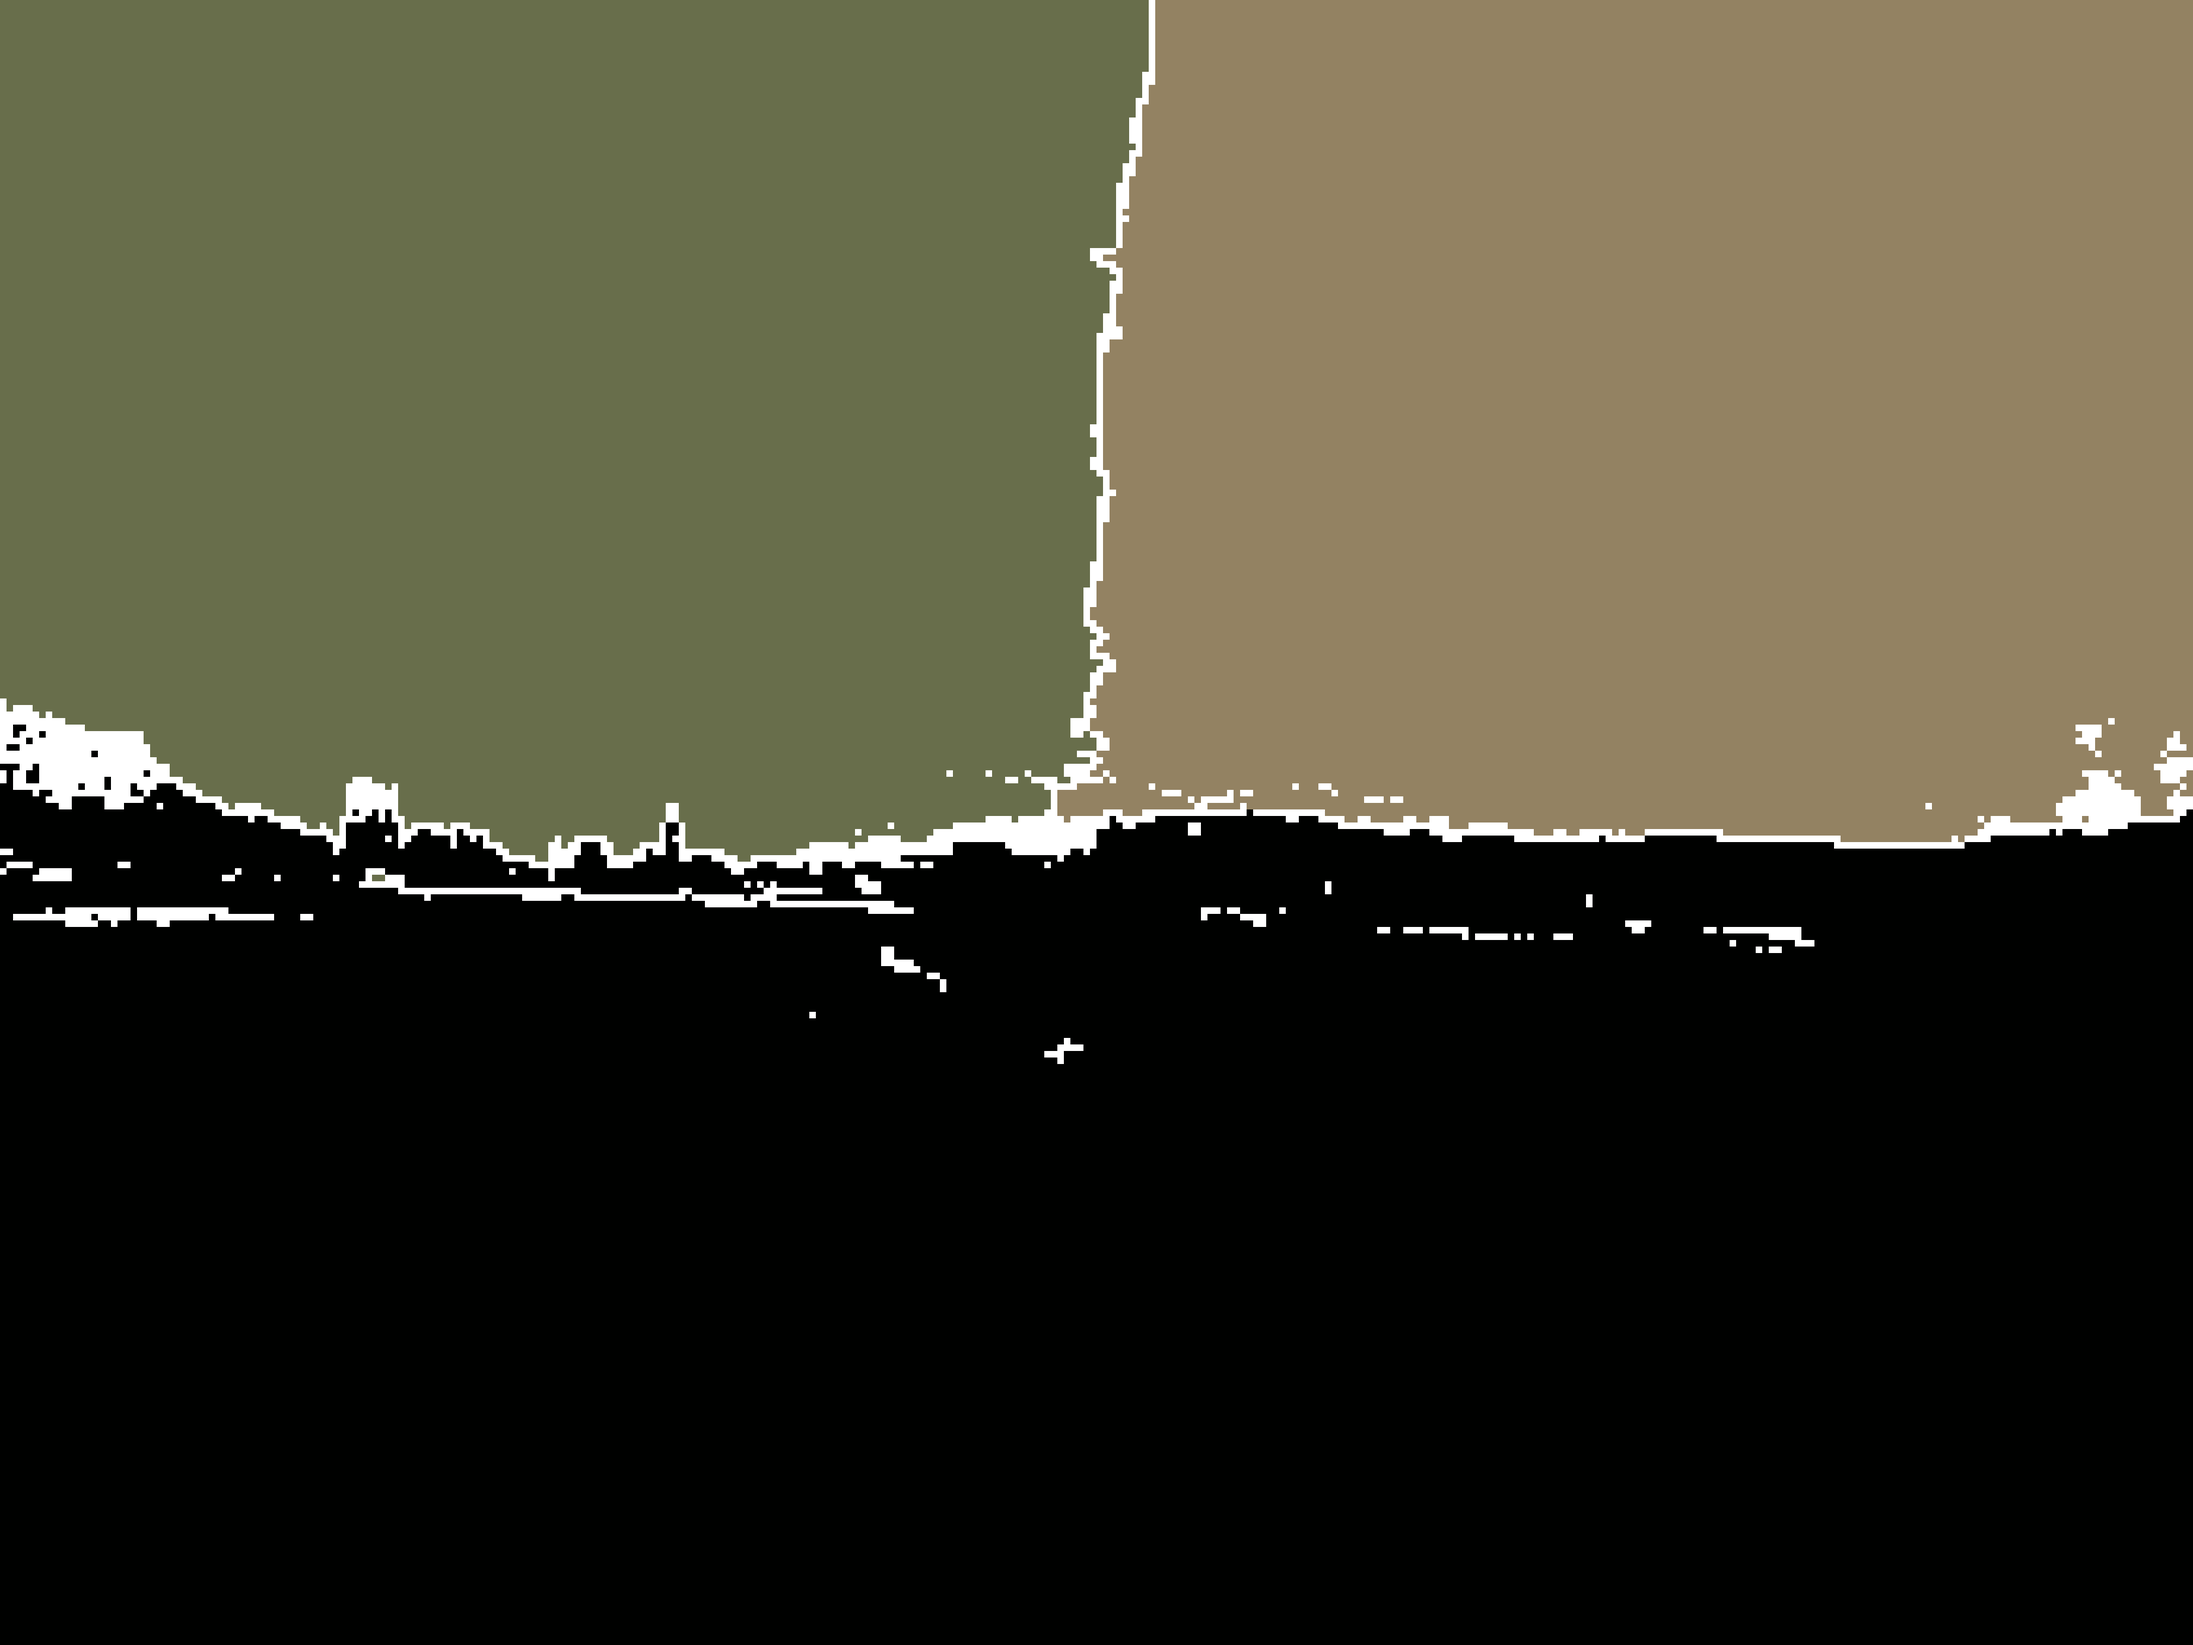
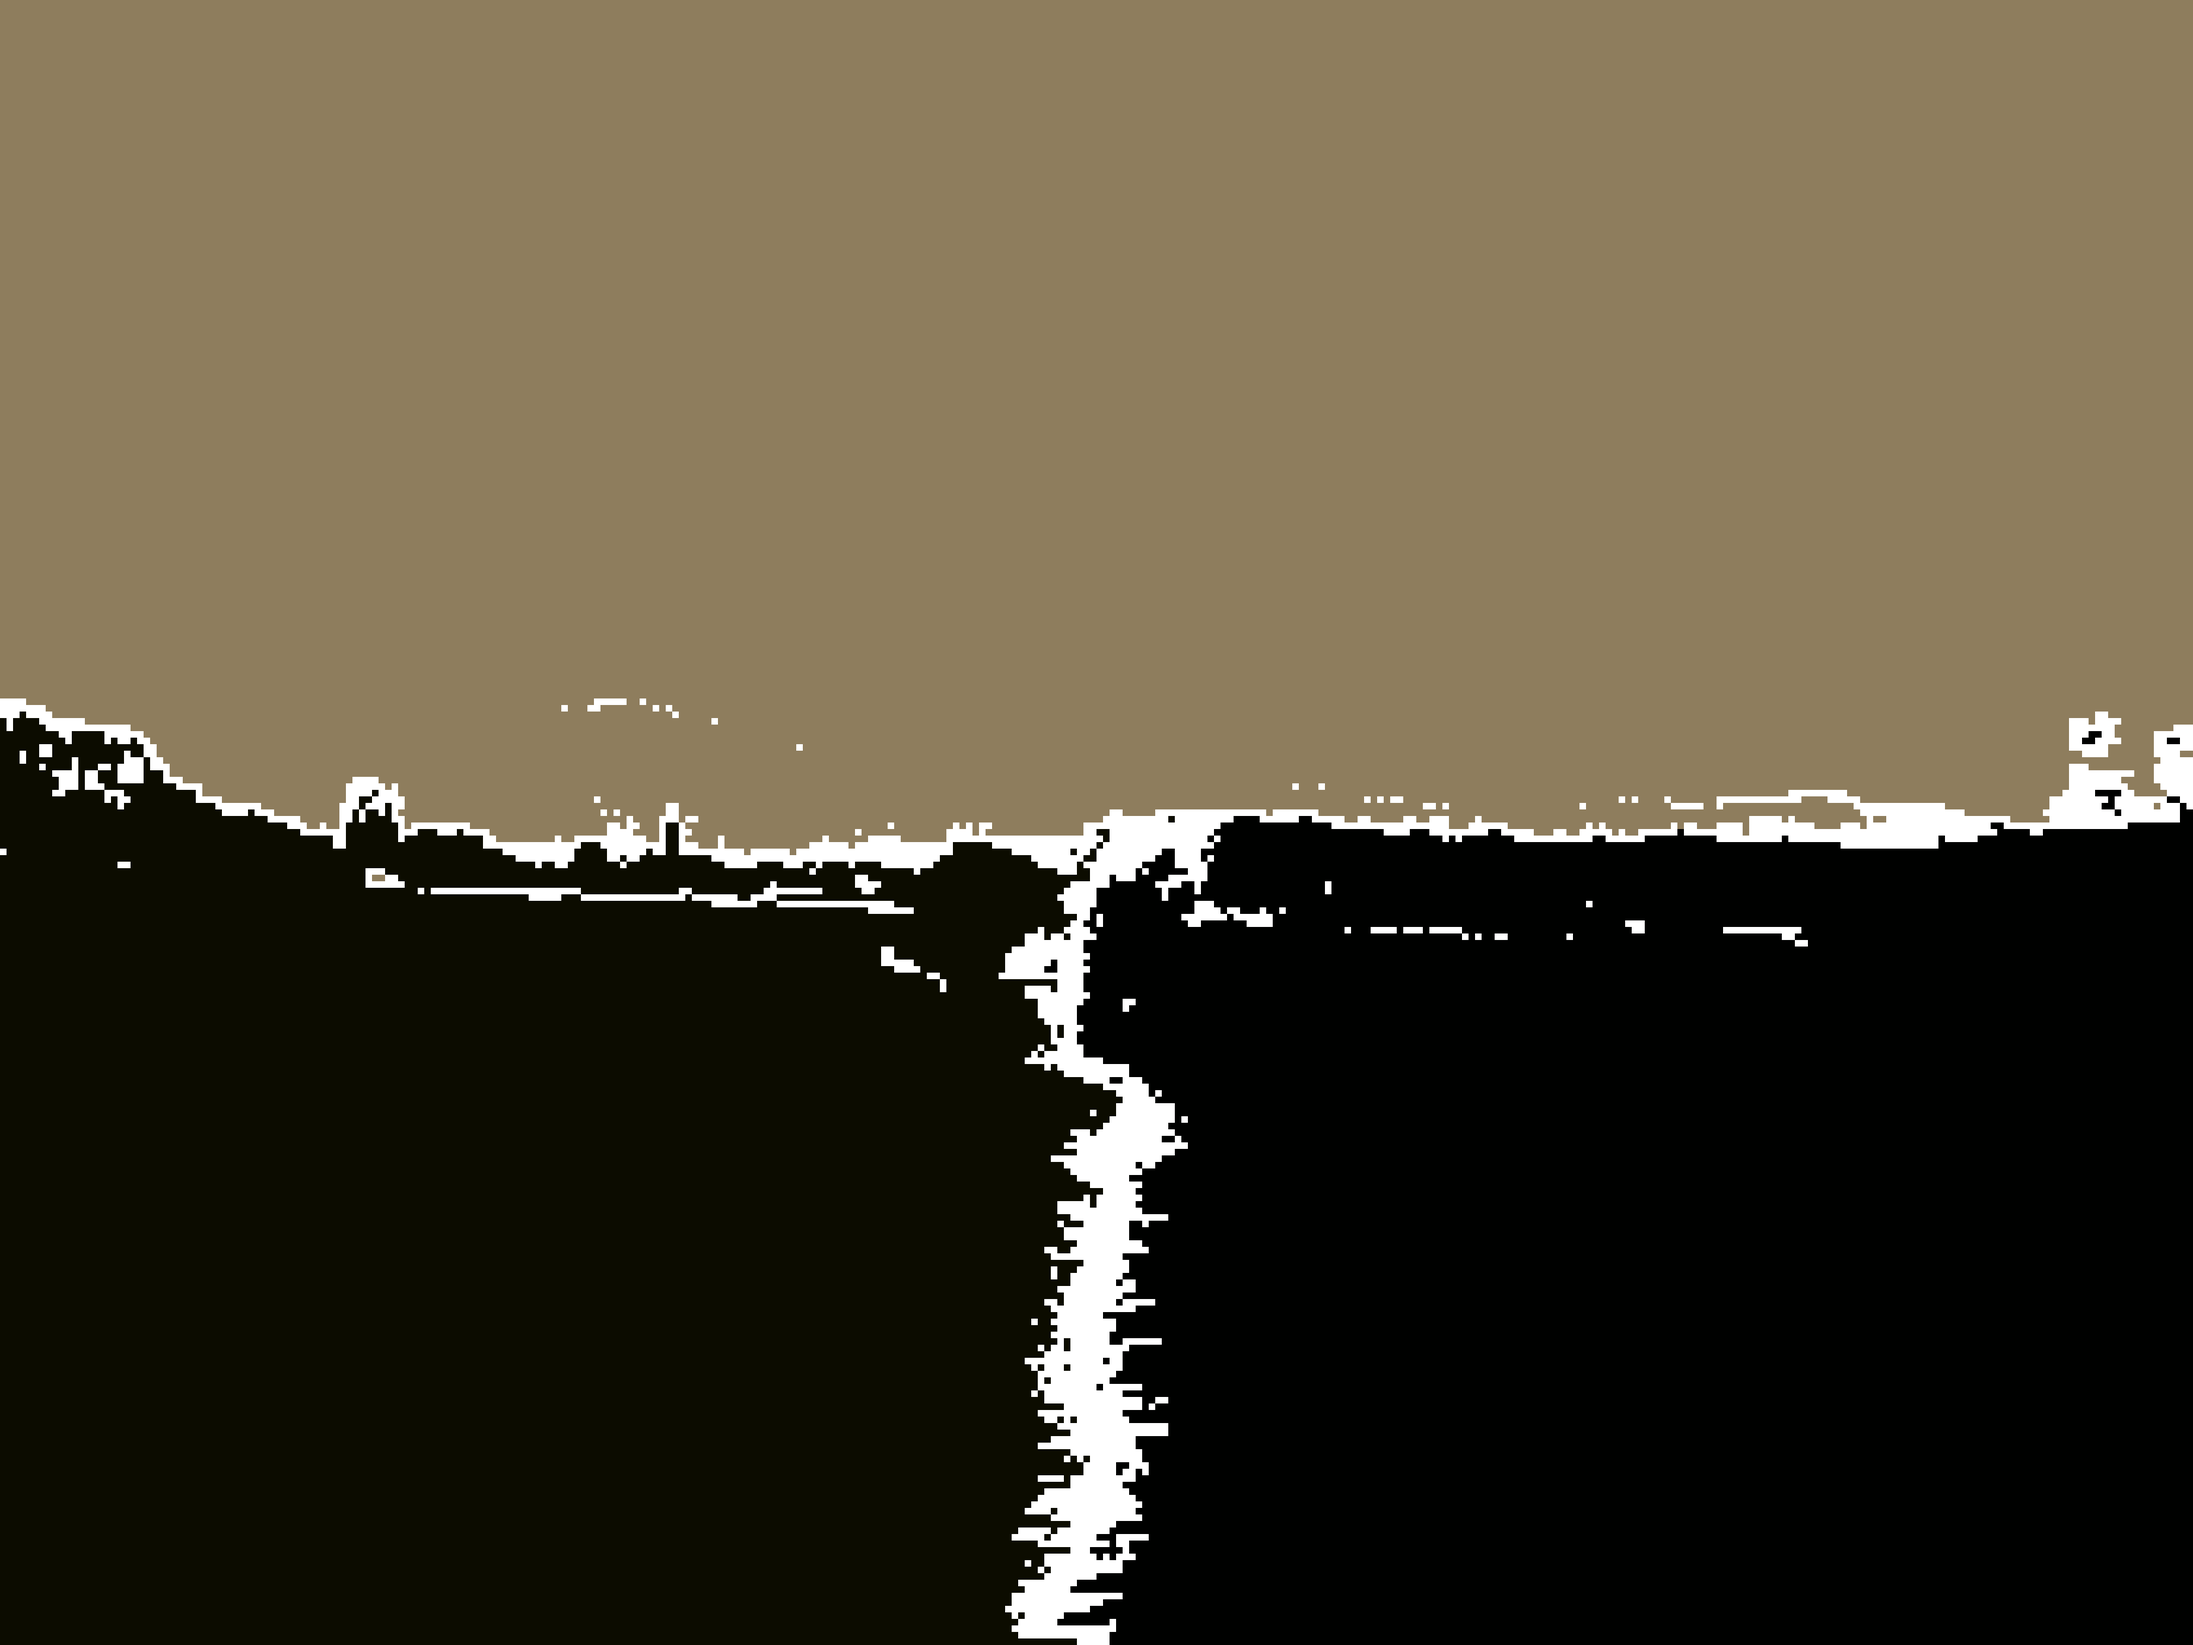
Changed to kmeans and removed cogset

diff --git a/src/lib.rs b/src/lib.rs
@@ -48,7 +48,7 @@ mod tests {
         let cluster = crate::encode::clustering::clustering_methods::kmeans_clustering(&cloud, 3);
         let mut size: usize = 0;
         for c in cluster.iter() {
-            size += c.1.len();
+            size += c.len();
         }
         assert_eq!(size, pixel_count);
     }
@@ -64,7 +64,7 @@ mod tests {
         for (_idx, c) in cluster.iter().enumerate() {
             let mut add_color: [u32; 3] = [0, 0, 0];
             let mut counter: u32 = 1;
-            for p in &c.1 {
+            for p in c {
                 counter += 1;
                 add_color[0] = add_color[0] + points[*p][2];
                 add_color[1] = add_color[1] + points[*p][3];
@@ -94,7 +94,7 @@ mod tests {
                 def_color = Rgb([0, 0, 0]);
             }
             */
-            for p in &c.1 {
+            for p in c.iter() {
                 debug_img.put_pixel(points[*p][0] as u32, points[*p][1] as u32, def_color);
             }
         }
@@ -153,14 +153,14 @@ mod tests {
         for idy in 0..grid.hx {
             // println!("{:?}", x_arr);
             for idx in 0..grid.wx {
-                let mut real_w = grid.w;
-                let mut real_h = grid.h;
-                if ((idx + 1) * grid.w) >= w_len {
-                    real_w -= 1;
-                }
-                if ((idy + 1) * grid.h) >= h_len {
-                    real_h -= 1;
-                }
+                // let mut _real_w = grid.w;
+                // let mut _real_h = grid.h;
+                // if ((idx + 1) * grid.w) >= w_len {
+                //     real_w -= 1;
+                // }
+                // if ((idy + 1) * grid.h) >= h_len {
+                //     real_h -= 1;
+                // }
                 let code = &grid.data[[idx, idy]].to_owned();
                 let base_color = if *code == 16 {
                     Rgb([255 as u8, 255 as u8, 255 as u8])

diff --git a/src/encode/grid/grid_ops.rs b/src/encode/grid/grid_ops.rs
@@ -1,4 +1,3 @@
-use cogset::Euclid;
 use ndarray::{Array, ArrayBase, OwnedRepr, Dim, Axis, Array2, ArrayView, Ix3, s};
 use crate::encode::grid::grid_obj::Grid;
 use crate::io::img_obj::Image;
@@ -6,10 +5,10 @@ use image::{Rgb, RgbImage};
 use std::collections::HashMap;
 use crate::encode::clustering::cluster_color::calc_min;
 
-pub fn calc_cluster_map(cluster: &[(Euclid<[f64; 5]>, Vec<usize>)], points: &[[u32; 5]], shape: [usize; 2]) -> ArrayBase<OwnedRepr<usize>, Dim<[usize; 2]>> {
+pub fn calc_cluster_map(cluster: &[Vec<usize>], points: &[[u32; 5]], shape: [usize; 2]) -> ArrayBase<OwnedRepr<usize>, Dim<[usize; 2]>> {
     let mut arr = Array::zeros(shape);
     for (id, c) in cluster.iter().enumerate() {
-        for idx in &c.1 {
+        for idx in c {
             let x = points[*idx][0] as usize;
             let y = points[*idx][1] as usize;
             arr[[x, y]] = id;
@@ -131,10 +130,10 @@ fn calc_chunck_rel(chunck: &ArrayView<u8, Ix3>, color: &[u8; 3]) -> Vec<[u8; 3]>
     pixels.iter().map(|p| { [p[0] - c_r, p[1] - c_g, p[2] - c_b] }).collect()
 }
 
-pub fn calc_cluster_colors(clusters: &[(Euclid<[f64; 5]>, Vec<usize>)], points: &[[u32; 5]]) -> HashMap<u8, [u8; 3]> {
+pub fn calc_cluster_colors(clusters: &[Vec<usize>], points: &[[u32; 5]]) -> HashMap<u8, [u8; 3]> {
     let mut cluster_colors = HashMap::new();
     for (idx, cluster) in clusters.iter().enumerate() {
-        cluster_colors.insert(idx as u8, calc_min(&cluster.1, points));
+        cluster_colors.insert(idx as u8, calc_min(cluster, points));
     }
     cluster_colors
 }

diff --git a/src/encode/clustering/clustering_methods.rs b/src/encode/clustering/clustering_methods.rs
@@ -1,6 +1,29 @@
-use cogset::{Euclid, Kmeans};
+use kmeans::*;
 
-pub fn kmeans_clustering(cloud: &[Euclid<[f64; 5]>], k: usize) -> Vec<(Euclid<[f64; 5]>, Vec<usize>)> {
-    let kmeans = Kmeans::new(cloud, k);
-    kmeans.clusters()
+pub fn kmeans_clustering(cloud: &[[f64; 5]], k: usize) -> Vec<Vec<usize>> {
+    let mut inp = vec![];
+    for e in cloud.iter() {
+        for i in e {
+            inp.push(*i);
+        }
+    }
+    let kmeans = KMeans::new(inp, cloud.len(), 5);
+    let result = kmeans.kmeans_lloyd(k, 10, KMeans::init_kmeanplusplus, &KMeansConfig::default());
+    println!("Centroids => {:?}", result.centroids);
+    println!("Points => {}", cloud.len());
+    println!("Cluster-Assingments => {:?}", result.assignments.len());
+    let mut assingnments = vec![];
+    for idx in 0..result.centroids.len() {
+        let assigns: Vec<usize> = result.assignments.iter().enumerate()
+            .filter(|e| {
+                *e.1 == idx
+            })
+            .map(|e| {
+                e.0
+            })
+            .collect();
+        assingnments.push(assigns);
+
+    }
+    assingnments
 }

diff --git a/src/encode/clustering/gen_point_cloud.rs b/src/encode/clustering/gen_point_cloud.rs
@@ -1,20 +1,20 @@
 use crate::io::img_obj::Image;
 use ndarray::Axis;
-use cogset::Euclid;
 
-pub fn gen_euclid_cloud(img: &Image) -> Vec<Euclid<[f64; 5]>> {
+pub fn gen_euclid_cloud(img: &Image) -> Vec<[f64; 5]> {
     let arr = &img.data;
     let x_len = img.data.dim().2 as f64;
     let y_len = img.data.dim().1 as f64;
-    let mut super_vec: Vec<Euclid<[f64; 5]>> = vec![];
+    let mut super_vec: Vec<[f64; 5]> = vec![];
     for (y, item) in arr.axis_iter(Axis(1)).enumerate() {
         for (x, pixel) in item.axis_iter(Axis(1)).enumerate() {
             // super_vec.push(Euclid([pixel[0] as f64, pixel[1] as f64, pixel[2] as f64]));
-            super_vec.push(Euclid([pixel[0] as f64, pixel[1] as f64, pixel[2] as f64, (x as f64 / x_len) * 255.0, (y as f64 / y_len) * 255.0]));
+            super_vec.push([pixel[0] as f64, pixel[1] as f64, pixel[2] as f64, (x as f64 / x_len) * 255.0, (y as f64 / y_len) * 255.0]);
         }
     }
     super_vec
 }
+
 
 pub fn gen_point_cloud(img: &Image) -> Vec<[u32; 5]> {
     let arr = &img.data;

diff --git a/src/encode/compress/compressors.rs b/src/encode/compress/compressors.rs
@@ -18,7 +18,7 @@ pub fn comp_data(inp: &Bytes) -> Bytes {
     let data= inp.to_vec();
     let mut encoder = Encoder::new(Vec::new(), 21).unwrap();
     let n_counters = num_cpus::get() as u32;
-    encoder.multithread(n_counters);
+    encoder.multithread(n_counters).unwrap();
     encoder.write_all(&data).unwrap();
     let encoded_data = encoder.finish().unwrap();
     bytes_list(&encoded_data)
